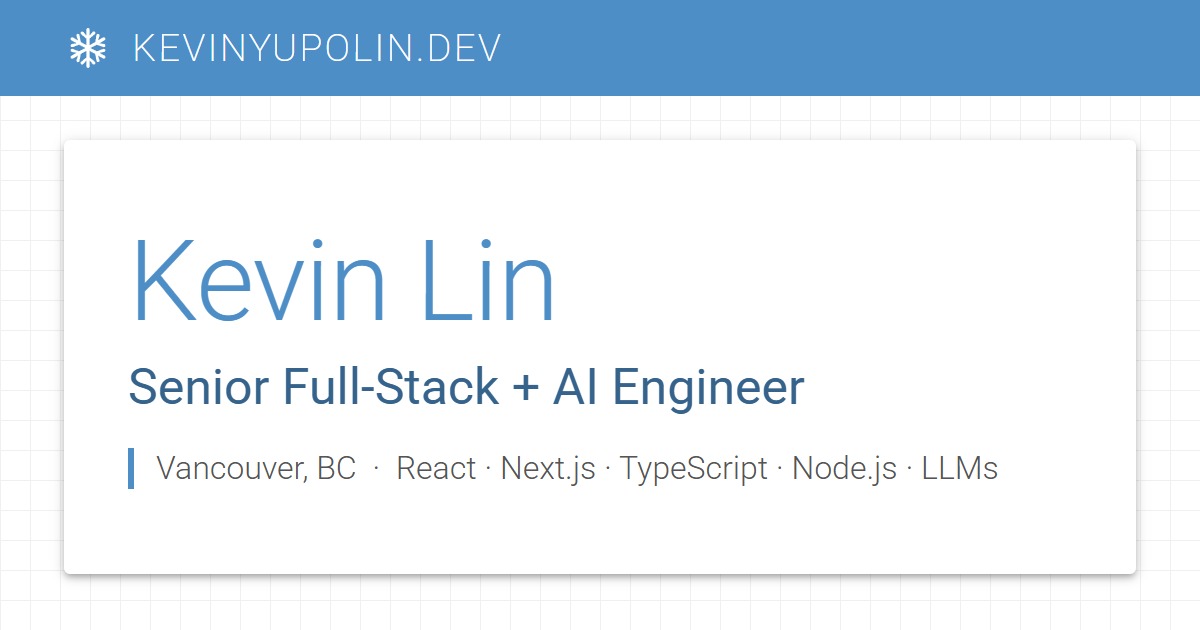
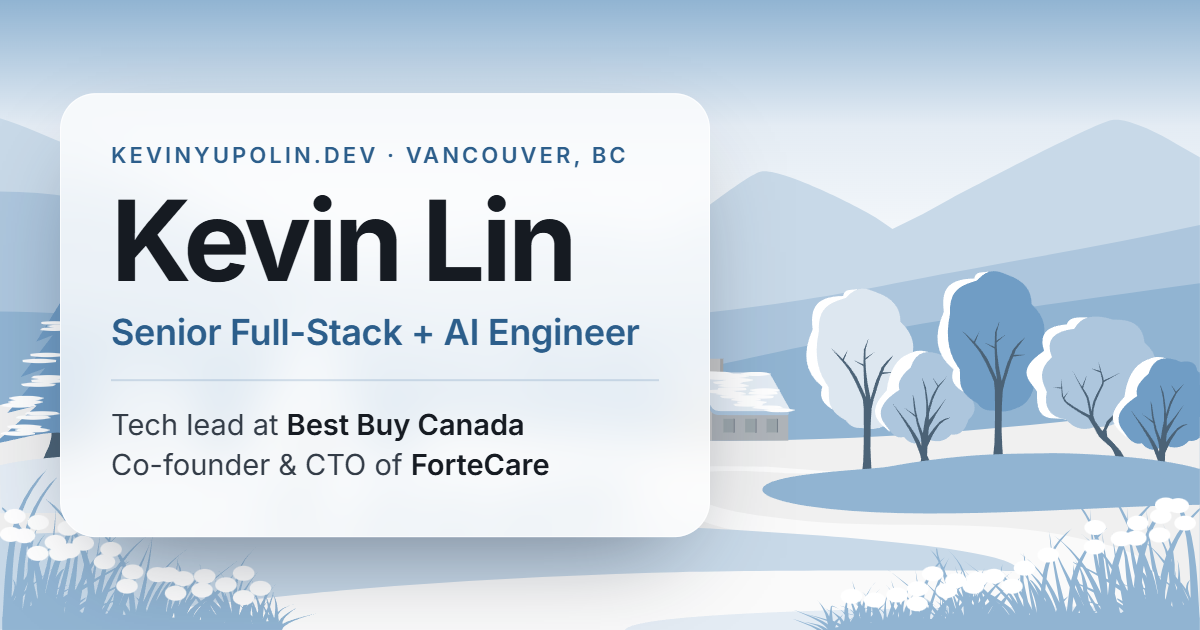
Share image: the home page's hero in miniature
The 1200 x 630 og:image now looks like the site: the winter illustration
of Vancouver over its sky, and a frosted card in Inter with the name, the
title in the site's blue, and the two current roles (Best Buy Canada,
ForteCare). The text is sized to stay readable in small link previews.
homeSeo.image moves to ?v=3, so LinkedIn fetches the new picture.

diff --git a/apps/my-website/scripts/og-image/og-image.html b/apps/my-website/scripts/og-image/og-image.html
@@ -2,54 +2,43 @@
 <html>
 <head>
 <meta charset="utf-8">
-<link href="https://fonts.googleapis.com/css2?family=Roboto:wght@200;300;400;500&display=block" rel="stylesheet">
+<!-- The share image for the home page (1200 x 630): the hero in miniature. The season's
+     illustration of Vancouver (winter, the site's default palette) with the sky behind it, and
+     the frosted card with who Kevin is. Previews often show it 400-550 px wide, so the text is
+     big: check the small render before committing. -->
+<link href="https://fonts.googleapis.com/css2?family=Inter:wght@400;500;600;700&display=block" rel="stylesheet">
 <style>
   * { box-sizing: border-box; margin: 0; }
   html, body { width: 1200px; height: 630px; overflow: hidden; }
   body {
-    font-family: Roboto, sans-serif;
-    background-color: #fff;
-    background-image:
-      linear-gradient(#f0f0f0 1.5px, transparent 1.5px),
-      linear-gradient(to right, #f0f0f0 1.5px, #fff 1.5px);
-    background-size: 30px 30px;
+    font-family: Inter, sans-serif;
+    /* As on the home page: the picture covers the frame, bottom edge in view, over its sky */
+    background:
+      url("../../public/resources/seasons/winter.svg") 70% 100% / cover no-repeat,
+      linear-gradient(0deg, #ffffff 50%, #e4ecf4 80%, #91b4d2 100%);
     position: relative;
   }
-  .band {
-    height: 96px;
-    background: #4e8ec7;
-    display: flex;
-    align-items: center;
-    padding: 0 64px;
-    gap: 20px;
-    color: #fff;
+  .card {
+    position: absolute; left: 60px; top: 50%; transform: translateY(-50%);
+    width: 650px; padding: 50px 50px 52px;
+    border-radius: 36px; border: 1.5px solid rgba(255, 255, 255, 0.75);
+    background: rgba(255, 255, 255, 0.76);
+    backdrop-filter: blur(24px);
+    box-shadow: 0 40px 100px -40px rgba(15, 23, 42, 0.55);
   }
-  .band img { width: 48px; height: 48px; }
-  .band span { font-weight: 200; font-size: 38px; letter-spacing: 0.06em; text-transform: uppercase; }
-  .paper {
-    position: absolute;
-    left: 64px; right: 64px; top: 140px; bottom: 56px;
-    background: #fff;
-    border-radius: 6px;
-    box-shadow: 0 4px 6px -2px rgba(0,0,0,.2), 0 4px 8px 0 rgba(0,0,0,.14), 0 2px 14px 0 rgba(0,0,0,.12);
-    padding: 48px 64px;
-    display: flex; flex-direction: column; justify-content: center;
-  }
-  h1 { font-weight: 300; font-size: 112px; line-height: 1; color: #4e8ec7; letter-spacing: -0.01em; }
-  h2 { font-weight: 400; font-size: 50px; line-height: 1.1; color: #36638b; margin-top: 22px; }
-  p {
-    margin-top: 34px;
-    font-weight: 300; font-size: 32px; line-height: 1.3; color: #555;
-    border-left: 6px solid #4e8ec7; padding-left: 22px;
-  }
+  .eyebrow { font-size: 22px; line-height: 1; font-weight: 600; letter-spacing: 0.14em; text-transform: uppercase; color: #2c5e8b; }
+  h1 { margin-top: 18px; font-size: 112px; line-height: 1; font-weight: 700; letter-spacing: -0.035em; color: #161b22; }
+  .title { margin-top: 16px; font-size: 36px; line-height: 1.15; font-weight: 600; letter-spacing: -0.01em; color: #2c5e8b; white-space: nowrap; }
+  .roles { margin-top: 26px; padding-top: 24px; border-top: 2px solid rgba(48, 101, 150, 0.18); font-size: 29px; line-height: 1.35; color: #333c47; }
+  .roles b { font-weight: 600; color: #161b22; }
 </style>
 </head>
 <body>
-  <div class="band"><img src="../../public/resources/icons/winterIcon.svg" alt=""><span>kevinyupolin.dev</span></div>
-  <div class="paper">
+  <div class="card">
+    <p class="eyebrow">kevinyupolin.dev · Vancouver, BC</p>
     <h1>Kevin Lin</h1>
-    <h2>Senior Full-Stack + AI Engineer</h2>
-    <p>Vancouver, BC &nbsp;·&nbsp; React · Next.js · TypeScript · Node.js · LLMs</p>
+    <p class="title">Senior Full-Stack + AI Engineer</p>
+    <p class="roles">Tech lead at <b>Best Buy Canada</b><br>Co-founder &amp; CTO of <b>ForteCare</b></p>
   </div>
 </body>
 </html>

diff --git a/apps/my-website/src/data/profile.ts b/apps/my-website/src/data/profile.ts
@@ -39,7 +39,7 @@ export const homeSeo = {
   title: "Kevin Lin | Senior Full-Stack & AI Engineer in Vancouver",
   description: "Kevin Lin is a senior full-stack and AI engineer in Vancouver, BC, building React, Next.js and TypeScript products. See his projects, experience and resume.",
   // LinkedIn caches images by URL for days, so bump ?v= whenever the image changes
-  image: `${SITE_URL}/resources/og-image.png?v=2`,
+  image: `${SITE_URL}/resources/og-image.png?v=3`,
   imageAlt: "Kevin Lin, Senior Full-Stack + AI Engineer in Vancouver, BC",
 };
 
